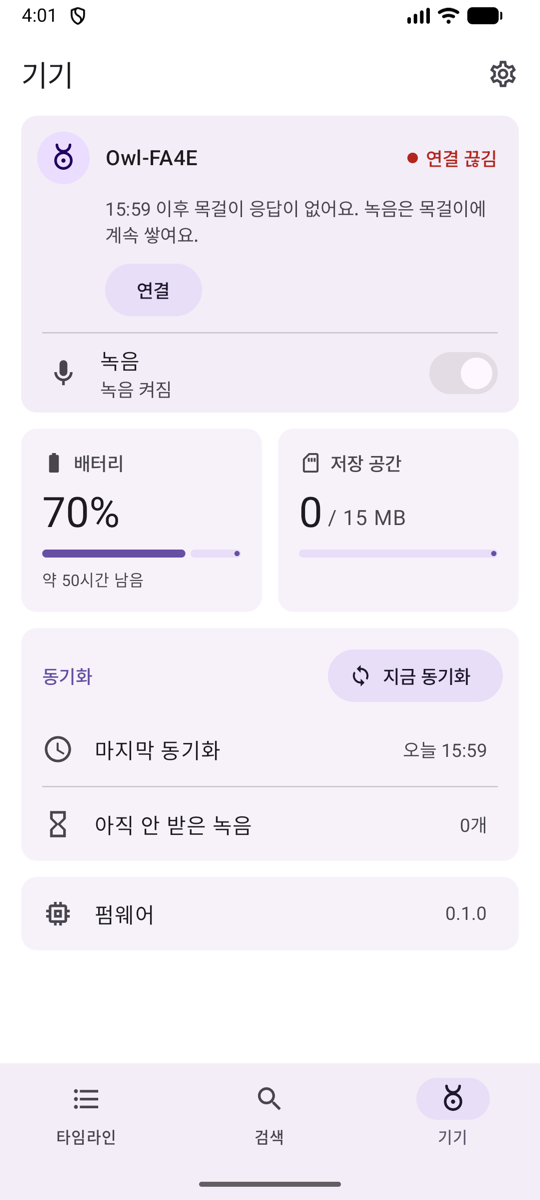
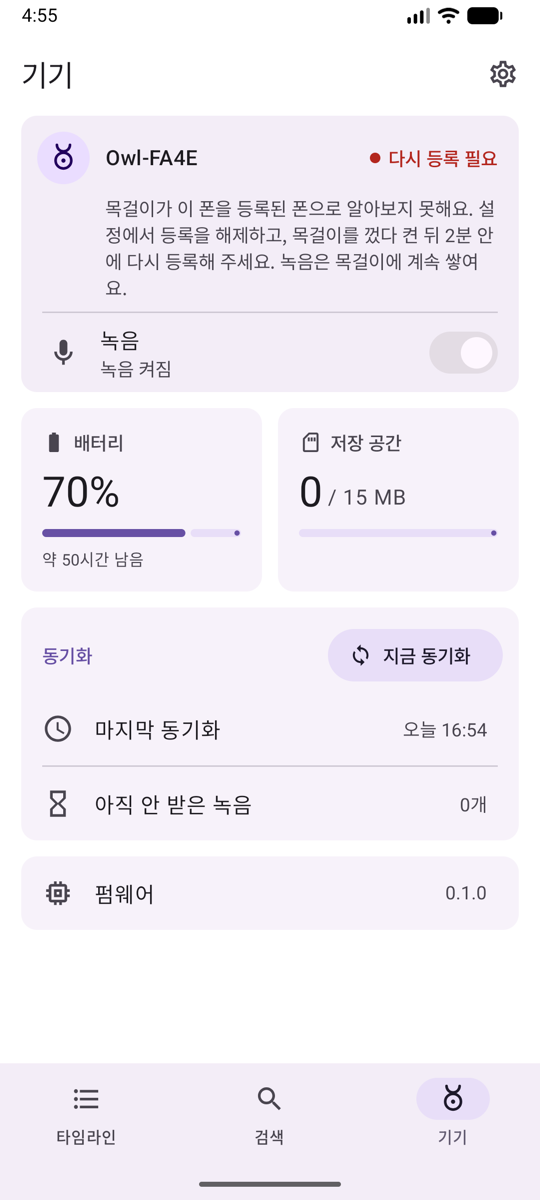
android: detect "pendant lost our key" on Android 16+ (decisions #43) (#12)
Protocol §2.4 flow 5: the pendant no longer has the phone's bond. Android
16+ drops the link itself when encryption with the stored key fails (AOSP
btm_sec.cc, flag disconnect_on_encryption_failure), so the app only saw
disconnect status 0x16, retried three times and showed "연결 끊김".

BleTransport now listens, while connected on API 36+, for the public
protected broadcasts ACTION_ENCRYPTION_CHANGE (failure status 0x05/0x06/
0x25) and ACTION_KEY_MISSING for its device, and turns them into
NotBondedException. A 0x16 disconnect waits up to 1 s for the broadcast,
which can arrive after the GATT callback. API 31-35 keeps the existing
137 path (GATT op ends with GATT_AUTH_FAIL, no disconnect).

Verified in the emulator (API 37) with the Bumble fake: "다시 등록 필요".
The real-controller 0x06 / ACTION_KEY_MISSING path and API 31-35 are from
AOSP source only.

diff --git a/android/app/src/main/java/dev/owl/app/ble/BleTransport.kt b/android/app/src/main/java/dev/owl/app/ble/BleTransport.kt
@@ -10,11 +10,17 @@ import android.bluetooth.BluetoothGattDescriptor
 import android.bluetooth.BluetoothManager
 import android.bluetooth.BluetoothProfile
 import android.bluetooth.BluetoothStatusCodes
+import android.content.BroadcastReceiver
 import android.content.Context
+import android.content.Intent
+import android.content.IntentFilter
 import android.content.pm.PackageManager
 import android.os.Build
+import android.os.Handler
+import android.os.Looper
 import android.util.Log
 import androidx.core.content.ContextCompat
+import androidx.core.content.IntentCompat
 import dev.owl.app.device.Characteristic
 import dev.owl.app.device.NotBondedException
 import dev.owl.app.device.OwlTransport
@@ -56,6 +62,15 @@ import java.util.concurrent.atomic.AtomicReference
  * own retry (BluetoothGatt re-tries a status 5/15 operation after pairing/encrypting) ends with
  * status 137 (GATT_AUTH_FAIL), which becomes [NotBondedException]: the sync coordinator stops
  * retrying and shows "다시 등록".
+ *
+ * The pendant lost our bond (§2.4 flow 5) while the phone still has it: the phone encrypts with its
+ * stored key and the controller reports an encryption failure. Android 12–15 then ends the GATT
+ * operation with 137 (AOSP gatt_auth.cc), handled above. Android 16+ instead drops the link itself
+ * (AOSP btm_sec.cc, flag `disconnect_on_encryption_failure`), so we only see disconnect status 0x16
+ * "local host terminated", which on its own says nothing about keys. API 36 also made two
+ * broadcasts public that do: ACTION_ENCRYPTION_CHANGE (with the HCI status) and ACTION_KEY_MISSING.
+ * [KeyLossWatcher] listens for them while connected, and a 0x16 disconnect waits briefly for one
+ * before deciding between "not bonded" and an ordinary lost link (decisions.md #44).
  */
 class BleTransport(context: Context, private val address: String) : OwlTransport {
 
@@ -87,6 +102,10 @@ class BleTransport(context: Context, private val address: String) : OwlTransport
     /** The operation currently waiting for its callback, if any. */
     private val pending = AtomicReference<Pending?>(null)
 
+    /** API 36+: watches for "our stored key was refused" while a connection is open. */
+    @Volatile private var keyLoss: KeyLossWatcher? = null
+    private val mainHandler = Handler(Looper.getMainLooper())
+
     private enum class Kind { CONNECT, MTU, DISCOVER, READ, WRITE, DESCRIPTOR }
 
     private class Pending(val kind: Kind, val target: Any? = null) {
@@ -115,6 +134,7 @@ class BleTransport(context: Context, private val address: String) : OwlTransport
         if (device.bondState != BluetoothDevice.BOND_BONDED) throw NotBondedException("phone has no bond with $address")
 
         negotiatedMtu = DEFAULT_MTU
+        keyLoss = if (Build.VERSION.SDK_INT >= Build.VERSION_CODES.BAKLAVA) KeyLossWatcher(device.address).also { it.register() } else null
         try {
             // 1. Link. autoConnect=false = direct connection attempt, fast but gives up (status 133)
             //    when the pendant is not advertising; the sync engine retries (decisions.md #16).
@@ -275,7 +295,76 @@ class BleTransport(context: Context, private val address: String) : OwlTransport
         gatt = null
         characteristics = emptyMap()
         failPending("disconnected")
+        keyLoss?.unregister()
+        keyLoss = null
         if (g != null) closeQuietly(g)
+    }
+
+    /**
+     * Android dropped the link itself (0x16). If it did so because our key was refused, the
+     * broadcast saying so may arrive just before or just after this callback (they come through
+     * different paths), so give it [KEY_LOSS_GRACE_MS] before failing [p] as an ordinary lost link.
+     * [KeyLossWatcher] fails the pending op as not bonded as soon as the broadcast arrives.
+     */
+    private fun failAfterKeyLossGrace(p: Pending?, watcher: KeyLossWatcher, status: Int) {
+        if (p == null) return
+        mainHandler.postDelayed({
+            val reason = watcher.reason
+            if (pending.compareAndSet(p, null)) {
+                p.result.completeExceptionally(
+                    if (reason != null) NotBondedException("pendant refused our key: $reason")
+                    else TransportException("link lost (GATT status $status)"),
+                )
+            }
+        }, KEY_LOSS_GRACE_MS)
+    }
+
+    /**
+     * API 36+ broadcasts that tell us the pendant no longer has our bond. Both are protected
+     * broadcasts sent by the Bluetooth process (uid 1002), so, as for ACTION_BOND_STATE_CHANGED in
+     * [BondManager], the receiver must be exported and no other app can fake them.
+     */
+    private inner class KeyLossWatcher(private val deviceAddress: String) : BroadcastReceiver() {
+        @Volatile var reason: String? = null
+            private set
+        private var registered = false
+
+        fun register() {
+            val filter = IntentFilter().apply {
+                addAction(ACTION_ENCRYPTION_CHANGE)
+                addAction(ACTION_KEY_MISSING)
+            }
+            ContextCompat.registerReceiver(appContext, this, filter, ContextCompat.RECEIVER_EXPORTED)
+            registered = true
+        }
+
+        fun unregister() {
+            if (!registered) return
+            registered = false
+            try {
+                appContext.unregisterReceiver(this)
+            } catch (e: IllegalArgumentException) {
+                Log.w(TAG, "key-loss receiver already gone", e)
+            }
+        }
+
+        override fun onReceive(c: Context, intent: Intent) {
+            val d = IntentCompat.getParcelableExtra(intent, BluetoothDevice.EXTRA_DEVICE, BluetoothDevice::class.java)
+            if (!d?.address.equals(deviceAddress, ignoreCase = true)) return
+            val why = when (intent.action) {
+                ACTION_KEY_MISSING -> "KEY_MISSING"
+                ACTION_ENCRYPTION_CHANGE -> {
+                    val status = intent.getIntExtra(EXTRA_ENCRYPTION_STATUS, 0)
+                    val enabled = intent.getBooleanExtra(EXTRA_ENCRYPTION_ENABLED, false)
+                    Log.i(TAG, "encryption change: status $status, enabled $enabled")
+                    if (isKeyRefused(status, enabled)) "encryption failed, HCI status $status" else null
+                }
+                else -> null
+            } ?: return
+            Log.w(TAG, "pendant refused our key ($why)")
+            reason = why
+            failPending(NotBondedException("pendant refused our key: $why"))
+        }
     }
 
     /**
@@ -332,10 +421,14 @@ class BleTransport(context: Context, private val address: String) : OwlTransport
                     characteristics = emptyMap()
                     closeQuietly(g)
                 }
-                failPending(
-                    if (isAuthDisconnect(status)) NotBondedException("pendant dropped the link: not bonded (status $status)")
-                    else TransportException("link lost (GATT status $status)"),
-                )
+                val watcher = keyLoss
+                val keyRefused = watcher?.reason
+                when {
+                    isAuthDisconnect(status) -> failPending(NotBondedException("pendant dropped the link: not bonded (status $status)"))
+                    keyRefused != null -> failPending(NotBondedException("pendant refused our key: $keyRefused"))
+                    watcher != null && status == HCI_LOCAL_HOST_TERMINATED -> failAfterKeyLossGrace(pending.get(), watcher, status)
+                    else -> failPending(TransportException("link lost (GATT status $status)"))
+                }
                 if (wasConnected) eventChannel.trySend(TransportEvent.Disconnected)
             }
         }
@@ -420,8 +513,33 @@ class BleTransport(context: Context, private val address: String) : OwlTransport
          */
         private val AUTH_DISCONNECT_REASONS = setOf(0x05, 0x06)
 
+        /** HCI 0x16 Connection Terminated by Local Host: Android itself dropped the link. */
+        const val HCI_LOCAL_HOST_TERMINATED = 0x16
+
+        /**
+         * Encryption-change statuses that mean "the peer does not accept our stored key": 0x05
+         * Authentication Failure, 0x06 PIN or Key Missing (what a real controller reports when the
+         * peer answers LTK Negative Reply; netsim reports 0x05), 0x25 Encryption Mode Not Acceptable.
+         * The same set for which AOSP's btm_sec_encrypt_change forgets the LE key.
+         */
+        private val KEY_REFUSED_STATUSES = setOf(0x05, 0x06, 0x25)
+
+        /** How long a 0x16 disconnect waits for the key-loss broadcast. Measured gap on API 37: see decisions.md #44. */
+        const val KEY_LOSS_GRACE_MS = 1_000L
+
+        // API 36 constants (BluetoothDevice.ACTION_ENCRYPTION_CHANGE etc.), spelled out because they
+        // are @FlaggedApi in the SDK; the strings are fixed public API.
+        private const val ACTION_ENCRYPTION_CHANGE = "android.bluetooth.device.action.ENCRYPTION_CHANGE"
+        private const val ACTION_KEY_MISSING = "android.bluetooth.device.action.KEY_MISSING"
+        private const val EXTRA_ENCRYPTION_STATUS = "android.bluetooth.device.extra.ENCRYPTION_STATUS"
+        private const val EXTRA_ENCRYPTION_ENABLED = "android.bluetooth.device.extra.ENCRYPTION_ENABLED"
+
         fun isAuthFailure(gattStatus: Int): Boolean = gattStatus in AUTH_FAILURE_STATUSES
 
         fun isAuthDisconnect(status: Int): Boolean = status in AUTH_DISCONNECT_REASONS
+
+        /** An ACTION_ENCRYPTION_CHANGE broadcast that means the pendant refused our key. */
+        fun isKeyRefused(encryptionStatus: Int, encryptionEnabled: Boolean): Boolean =
+            !encryptionEnabled && encryptionStatus in KEY_REFUSED_STATUSES
     }
 }

diff --git a/android/app/src/test/java/dev/owl/app/ble/BondingTest.kt b/android/app/src/test/java/dev/owl/app/ble/BondingTest.kt
@@ -26,5 +26,18 @@ class BondingTest {
         assertTrue(BleTransport.isAuthDisconnect(6))
         assertFalse(BleTransport.isAuthDisconnect(8)) // supervision timeout = out of range
         assertFalse(BleTransport.isAuthDisconnect(19)) // remote user terminated
+        // Android 16+ drops the link itself on encryption failure: 0x16 alone is not "not bonded"
+        assertFalse(BleTransport.isAuthDisconnect(BleTransport.HCI_LOCAL_HOST_TERMINATED))
+    }
+
+    @Test
+    fun encryptionChangeBroadcastMeansKeyRefused() {
+        // Real controller: PIN or Key Missing. netsim: Authentication Failure. Encryption Mode Not Acceptable.
+        for (s in listOf(0x06, 0x05, 0x25)) assertTrue("status $s", BleTransport.isKeyRefused(s, encryptionEnabled = false))
+        // Success, or a transient failure (LL response timeout, connection timeout) is not a key problem
+        assertFalse(BleTransport.isKeyRefused(0x00, encryptionEnabled = true))
+        assertFalse(BleTransport.isKeyRefused(0x00, encryptionEnabled = false))
+        assertFalse(BleTransport.isKeyRefused(0x22, encryptionEnabled = false))
+        assertFalse(BleTransport.isKeyRefused(0x08, encryptionEnabled = false))
     }
 }

diff --git a/android/README.md b/android/README.md
@@ -168,18 +168,20 @@ python fake_owl.py --transport bumble --state /tmp/owl.json
 | 목걸이가 꺼져 있을 때 등록 해제 | UNPAIR가 15초 뒤 실패해도 폰 본딩·CDM은 지워짐(2.4장 표와 같음) |
 | 창 밖 페어링 거절 | 가짜 기기는 옛 본딩을 가진 채 창이 닫힘 → 등록 시도 → SMP Pairing Failed 0x08 → 폰 bond state NONE(이유 1) → 앱이 CDM 등록을 되돌리고 "껐다 켠 뒤 2분 안에" 안내 |
 | 껐다 켠 뒤 다시 등록 | `reboot` → 창 안에서 등록 성공, 옛 본딩은 새 본딩이 생긴 뒤에 교체 |
+| 목걸이가 키를 잃음(2.4장 흐름 5) | 등록 → 가짜 기기 끄기 → `/tmp/owl.keys.json` 삭제 → 다시 띄우고 동기화 → 폰이 저장된 키로 암호화하다 실패(netsim은 HCI 0x05) → Android가 **스스로** 연결을 끊음(status 22) → `ACTION_ENCRYPTION_CHANGE`(status 5, 꺼짐) → `NotBondedException` → 재시도 없이 "다시 등록 필요". 브로드캐스트는 끊김 콜백보다 약 9ms **뒤에** 온 적도, 앞에 온 적도 있음(#44). 2026-11-01 API 37 |
 
 스크린샷: [CDM 선택 창](docs/screenshots/bumble-cdm-light.png), [등록 완료](docs/screenshots/bumble-registered-light.png),
 [녹음 꺼짐](docs/screenshots/bumble-recording-off-light.png), [페어링 거절 안내](docs/screenshots/bumble-pairing-refused-light.png),
-[키 분실 → 연결 끊김](docs/screenshots/bumble-key-missing-light.png).
+[키 분실 → 다시 등록 필요](docs/screenshots/bumble-key-missing-light.png).
 
 확인 못 한 것 / 에뮬레이터라 다른 것:
 
-- **목걸이가 키를 잃은 경우(2.4장 흐름 5)**: 가짜 기기의 키 파일을 지우고 동기화하면 폰이 저장된 키로 암호화하다 실패하고 **폰이
-  스스로** 연결을 끊어서 앱은 GATT status 22(0x16, 로컬 호스트가 끊음)를 받아요. 앱은 0x05·0x06만 "본딩 없음"으로 보니까 세 번
-  재시도한 뒤 "연결 끊김"을 보여주고 "다시 등록"은 안내하지 않아요([스크린샷](docs/screenshots/bumble-key-missing-light.png)).
-  netsim은 이 실패를 진짜 컨트롤러의 0x06 대신 0x05로 내서(`tools/README.md`) Android의 `ACTION_KEY_MISSING` 경로가 돌지 않아요.
-  실제 목걸이에서 어떤 status가 오는지는 아직 몰라요.
+- **목걸이가 키를 잃은 경우(2.4장 흐름 5)**: 에뮬레이터(API 37)에서는 위 표처럼 "다시 등록 필요"까지 확인했어요. 확인 못 한 것:
+  - netsim은 암호화 실패를 진짜 컨트롤러의 0x06(PIN or Key Missing) 대신 0x05로 내서(`tools/README.md`) `ACTION_KEY_MISSING`은
+    에뮬레이터에서 안 와요. 0x06이면 `ACTION_ENCRYPTION_CHANGE`(status 6)와 `ACTION_KEY_MISSING`이 둘 다 온다는 건 AOSP 소스로만 확인.
+  - API 31–35: 연결을 끊지 않고 GATT 작업이 status 137로 끝나서 기존 처리로 "다시 등록"이 된다는 건 AOSP 소스(`gatt_auth.cc`)로만 확인.
+  - API 36에서 끊는 플래그(`disconnect_on_encryption_failure`)와 브로드캐스트 플래그가 제조사 폰에서 켜져 있는지. 끊기만 하고
+    브로드캐스트가 없으면 예전처럼 "연결 끊김"이 돼요.
 - 60초 암호화 타임아웃은 앱이 늘 바로 암호화해서 에뮬레이터에선 안 일어나요(`tools/tests/test_bumble.py`에서 확인).
 - 2분이 지나 창이 닫히는 것은 `--pairing-window 10`으로 줄여서 확인했어요.
 - 처리량·유실은 netsim 값이라 의미 없어요. API 31–35 경로(리플렉션 `removeBond` 등)는 에뮬레이터 API 37만 봤어요.
@@ -202,12 +204,22 @@ python fake_owl.py --transport bumble --state /tmp/owl.json
 python3 android/app/src/test/fixtures/gen_protocol_fixtures.py
 ```
 
-## 본딩 (프로토콜 2.4장, `decisions.md` #33–#40)
+## 본딩 (프로토콜 2.4장, `decisions.md` #33–#40, #44)
 
 - 등록: CDM 선택 → `BondManager.bond()`가 `createBond()` 후 `ACTION_BOND_STATE_CHANGED`를 기다림(60초) → 성공해야 등록 저장.
   목걸이가 거절하면(다른 폰이 본딩돼 있고 켠 지 2분이 지남) CDM 등록을 되돌리고 "껐다 켠 뒤 2분 안에 다시" 안내.
 - 동기화: 폰에 본딩이 없으면 연결하지 않고(백그라운드에서 페어링 창이 뜨지 않게) "다시 등록 필요". GATT status 5·15·137,
   또는 목걸이가 HCI 0x05·0x06으로 끊으면 `NotBondedException` → 재시도하지 않음.
+- 목걸이가 우리 본딩을 잃음(다른 폰 등록, 키 삭제. 2.4장 흐름 5, `decisions.md` #44): 폰이 저장된 키로 암호화하다 실패해요.
+  Android 버전마다 앱이 받는 신호가 달라요(AOSP `btm_sec.cc`·`gatt_auth.cc` 확인).
+
+  | Android | 앱이 보는 것 | 처리 |
+  |---|---|---|
+  | 12–15 (API 31–35) | 연결은 유지, 진행 중인 GATT 작업이 137 | 기존 137 처리 |
+  | 16+ (API 36+) | 폰이 스스로 끊음(status 22 = 0x16) + `ACTION_ENCRYPTION_CHANGE`(실패 status), 0x06이면 `ACTION_KEY_MISSING`도 | `BleTransport`가 연결 동안 두 브로드캐스트를 받아요. 0x16으로 끊기면 브로드캐스트를 최대 1초(`KEY_LOSS_GRACE_MS`) 기다려 "본딩 없음"인지 정해요 |
+
+  0x16만으로는 판단하지 않아요(Android가 다른 이유로 끊어도 0x16). 암호화 실패 status 0x05·0x06·0x25만 "키 거절"로 봐요
+  (AOSP가 LE 키를 잊는 조건과 같음).
 - 등록 해제: UNPAIR(목걸이가 모든 본딩 삭제, 10초 안에 못 하면 건너뜀) → 폰 본딩 삭제(API 36 `CompanionDeviceManager.removeBond`,
   31–35는 `BluetoothDevice.removeBond` 리플렉션) → CDM 해제. 폰 본딩 삭제가 안 되면 로그만 남겨요(시스템 블루투스 설정에서 지울 수 있음).
 - 가짜 기기: 본딩을 흉내 내지 않아요. `refuseAsNotBonded`로 거절을, UNPAIR로 STATUS bit4를 시험해요.
@@ -227,8 +239,8 @@ python3 android/app/src/test/fixtures/gen_protocol_fixtures.py
 - 위치: 백그라운드 위치 권한 + PendingIntent 업데이트가 앱 프로세스 없이 들어오는지
 - `SyncService`의 15분 대기: Doze 중엔 코루틴 타이머가 멈춰서 `setAndAllowWhileIdle` 알람으로 깨워요. 몇 분 늦을 수 있어요. 동기화 한 번에 최대 10분 wake lock
 - GATT 오류(status 133 등) 처리, API 31–32 경로(에뮬레이터는 API 37만 확인)
-- 본딩: 확인 창 없는 등록과 창 밖 거절은 에뮬레이터(API 37)에서 확인. 남은 것: 리플렉션 `removeBond`가 제조사 ROM에서도 되는지,
-  목걸이가 키를 잃었을 때 Android 버전별 동작(에뮬레이터에선 앱이 "다시 등록" 대신 "연결 끊김"을 보여줌, 위 참고)
+- 본딩: 확인 창 없는 등록과 창 밖 거절, 목걸이가 키를 잃었을 때 "다시 등록 필요"는 에뮬레이터(API 37)에서 확인. 남은 것:
+  리플렉션 `removeBond`가 제조사 ROM에서도 되는지, 키 분실 때 진짜 컨트롤러의 0x06·`ACTION_KEY_MISSING`과 API 31–35의 137(위 참고)
 - Opus 디코더: Android 디코더는 48kHz 출력만 받아서 OpusHead에 16kHz를 적고 48kHz로 디코딩해요. pre-skip 312, seek pre-roll 80ms
 
 ## 아직 안 된 것 / 다음 마일스톤

diff --git a/docs/decisions.md b/docs/decisions.md
@@ -58,6 +58,7 @@
 41. **에뮬레이터에서 앱의 진짜 BLE 경로는 Bumble 가짜 목걸이로 시험** — Android 에뮬레이터의 블루투스는 가상 컨트롤러(netsim)라 Google Bumble이 같은 가상 라디오에 BLE 기기로 붙을 수 있어요(`android-netsim` 전송). 그래서 `tools/fake_owl.py --transport bumble`이 기존 기기 모델(`owlsync/device.py`)을 그대로 광고하고, 앱은 코드 수정·debug 우회 없이 CDM 등록·`createBond()`·암호화·동기화·UNPAIR를 진짜 경로로 지나가요(2026-11-01 API 37에서 확인, `android/README.md`). `bless`(macOS)는 페어링을 거절할 수 없고 이 Mac에서 블루투스 권한도 못 받아 탈락. netsim은 키 분실을 0x06 대신 0x05로 흉내 내서 그 경우만은 하드웨어에서 확인해야 해요
 42. **Bumble 가짜 목걸이는 SMP·ATT 결과를 펌웨어(Zephyr)와 같게** — 본딩 안 하는 요청 0x08, LE legacy 0x03, 창 닫힘 0x08(Zephyr `smp_pairing_req()`·`smp_err_get()` 소스 확인), 본딩 없는 상대 ATT 0x05·본딩은 있는데 암호화 전 0x0F. 같은 규칙을 Bumble 가상 링크 두 개로 진짜 SMP를 돌리는 `tools/tests/test_bumble.py`가 CI에서 확인해요(그래서 `bumble`을 `tools/requirements.txt`에 고정). 에뮬레이터 E2E는 에뮬레이터가 있어야 해서 CI에선 안 돌려요
 43. **앱 테마는 설정에서 고름(다크 / 라이트 / 시스템 설정 따름), 기본은 다크** — 사용자가 고른 기본값. 값은 DataStore(`theme_mode`)에 두고, 같은 값을 `UiModeManager.setApplicationNightMode`(API 31+, 앱별로 Android가 저장)에도 넘겨요. 그래서 Compose가 그리기 전 시작 창(`res/values-night`)도 다음 실행부터 고른 테마예요. XML 테마를 항상 다크로 두는 방법은 라이트를 고른 사람이 켤 때마다 어두운 창을 보게 돼서 탈락. 대가: 설치 후 **첫 실행**만은 앱 코드가 돌기 전이라 시작 창이 폰 테마를 따라요(라이트 폰이면 잠깐 밝음). 테마를 바꾸면 Android가 화면(Activity)을 한 번 다시 만들어요(보던 화면은 그대로) (PRD A17)
+44. **목걸이가 우리 키를 거절하면(2.4장 흐름 5) API 36+는 암호화 브로드캐스트로 알아냄** — Android 16+는 저장된 키로 한 암호화가 실패하면 폰이 스스로 연결을 끊어서(AOSP `btm_sec.cc`, 플래그 `disconnect_on_encryption_failure`) 앱은 HCI 0x16(로컬 호스트가 끊음)만 받아요. 0x16은 다른 이유로도 오니 그것만으로 "다시 등록"을 띄우진 않고, API 36에 공개된 `ACTION_ENCRYPTION_CHANGE`(실패 status 0x05·0x06·0x25, AOSP가 LE 키를 잊는 조건과 같음)나 `ACTION_KEY_MISSING`이 같은 기기에 대해 오면 `NotBondedException`으로 바꿔요. 두 경로가 달라 브로드캐스트가 끊김 콜백보다 늦게 올 수 있어서(에뮬레이터에서 약 9ms 뒤) 0x16이면 최대 1초 기다려요. API 31–35는 끊지 않고 GATT 작업이 137로 끝나 기존 처리로 충분해요(소스 확인, 기기 미확인). 둘 다 보호된 브로드캐스트라 다른 앱이 흉내 낼 수 없어요. 에뮬레이터(API 37)에서 "다시 등록 필요"까지 확인, 진짜 컨트롤러의 0x06은 하드웨어에서 확인해야 해요
 
 ## 미결정
 

diff --git a/docs/roadmap.md b/docs/roadmap.md
@@ -20,7 +20,7 @@
 |---|---|---|
 | M0 | `firmware/bringup/` 빌드 통과 | 보드에서 체크리스트(`firmware/README.md`) |
 | M1–M3 | `firmware/` 빌드 통과, `native_sim` 테스트 60개 통과. `tools/sync.py`, 가짜 기기(`tools/fake_owl.py`). BLE 본딩(`decisions.md` #33–#40) | 보드에서 녹음·VAD 임계값·Opus 인코딩 시간·BLE 처리량, 실제 폰과 페어링·거절·폰 바꾸기 확인 |
-| M4 | `android/` 빌드·테스트 통과, 에뮬레이터에서 가짜 기기로 동기화 확인. 에뮬레이터 + Bumble 가짜 목걸이로 진짜 BLE 경로(CDM 등록·본딩·동기화·이어받기·녹음 스위치·UNPAIR·창 밖 거절) 확인(`decisions.md` #41) | 실제 목걸이·폰에서 CDM 범위 감지, 백그라운드 15분 동기화. 목걸이가 키를 잃었을 때 앱이 "다시 등록" 대신 "연결 끊김"을 보여줌(에뮬레이터에서 발견) |
+| M4 | `android/` 빌드·테스트 통과, 에뮬레이터에서 가짜 기기로 동기화 확인. 에뮬레이터 + Bumble 가짜 목걸이로 진짜 BLE 경로(CDM 등록·본딩·동기화·이어받기·녹음 스위치·UNPAIR·창 밖 거절) 확인(`decisions.md` #41) | 실제 목걸이·폰에서 CDM 범위 감지, 백그라운드 15분 동기화. 목걸이가 키를 잃었을 때 "다시 등록"은 에뮬레이터(API 37)에서만 확인, 진짜 컨트롤러 0x06·API 31–35는 기기에서(`decisions.md` #44) |
 | M5 | 배터리 경고·System OFF·GRTC 깨우기 로직 | 실측 소비전류 |
 | M6 | STT는 인터페이스만(엔진 미정) | 온디바이스 STT 엔진 선택 |
 

diff --git a/tools/README.md b/tools/README.md
@@ -171,7 +171,8 @@ python fake_owl.py --transport bumble --state /tmp/owl.json --pairing-window 10 
 - **기기가 키를 잃었을 때**: 진짜 컨트롤러는 LTK 요청을 거절하면 폰 쪽 암호화가 `0x06`(PIN or Key Missing)으로 실패해요.
   netsim의 컨트롤러(rootcanal)는 거절을 0 LTK로 보내고 폰 쪽은 `0x05`(Authentication Failure)로 끝나요
   (AOSP `tools/rootcanal/model/controller/link_layer_controller.cc` 확인). 그래서 Android의 키 분실 처리(`ACTION_KEY_MISSING`)는
-  에뮬레이터에서 볼 수 없어요.
+  에뮬레이터에서 볼 수 없어요. 앱은 `ACTION_ENCRYPTION_CHANGE`(status 5)로도 알아채서 "다시 등록 필요"까지는 시험돼요
+  (`decisions.md` #44).
 - MTU·PHY·처리량은 netsim 값이에요(MTU 247, 2M PHY는 받아들여짐). 실제 라디오의 유실·간섭은 없어요.
 
 ### macOS BLE에서 흉내 못 내는 것
